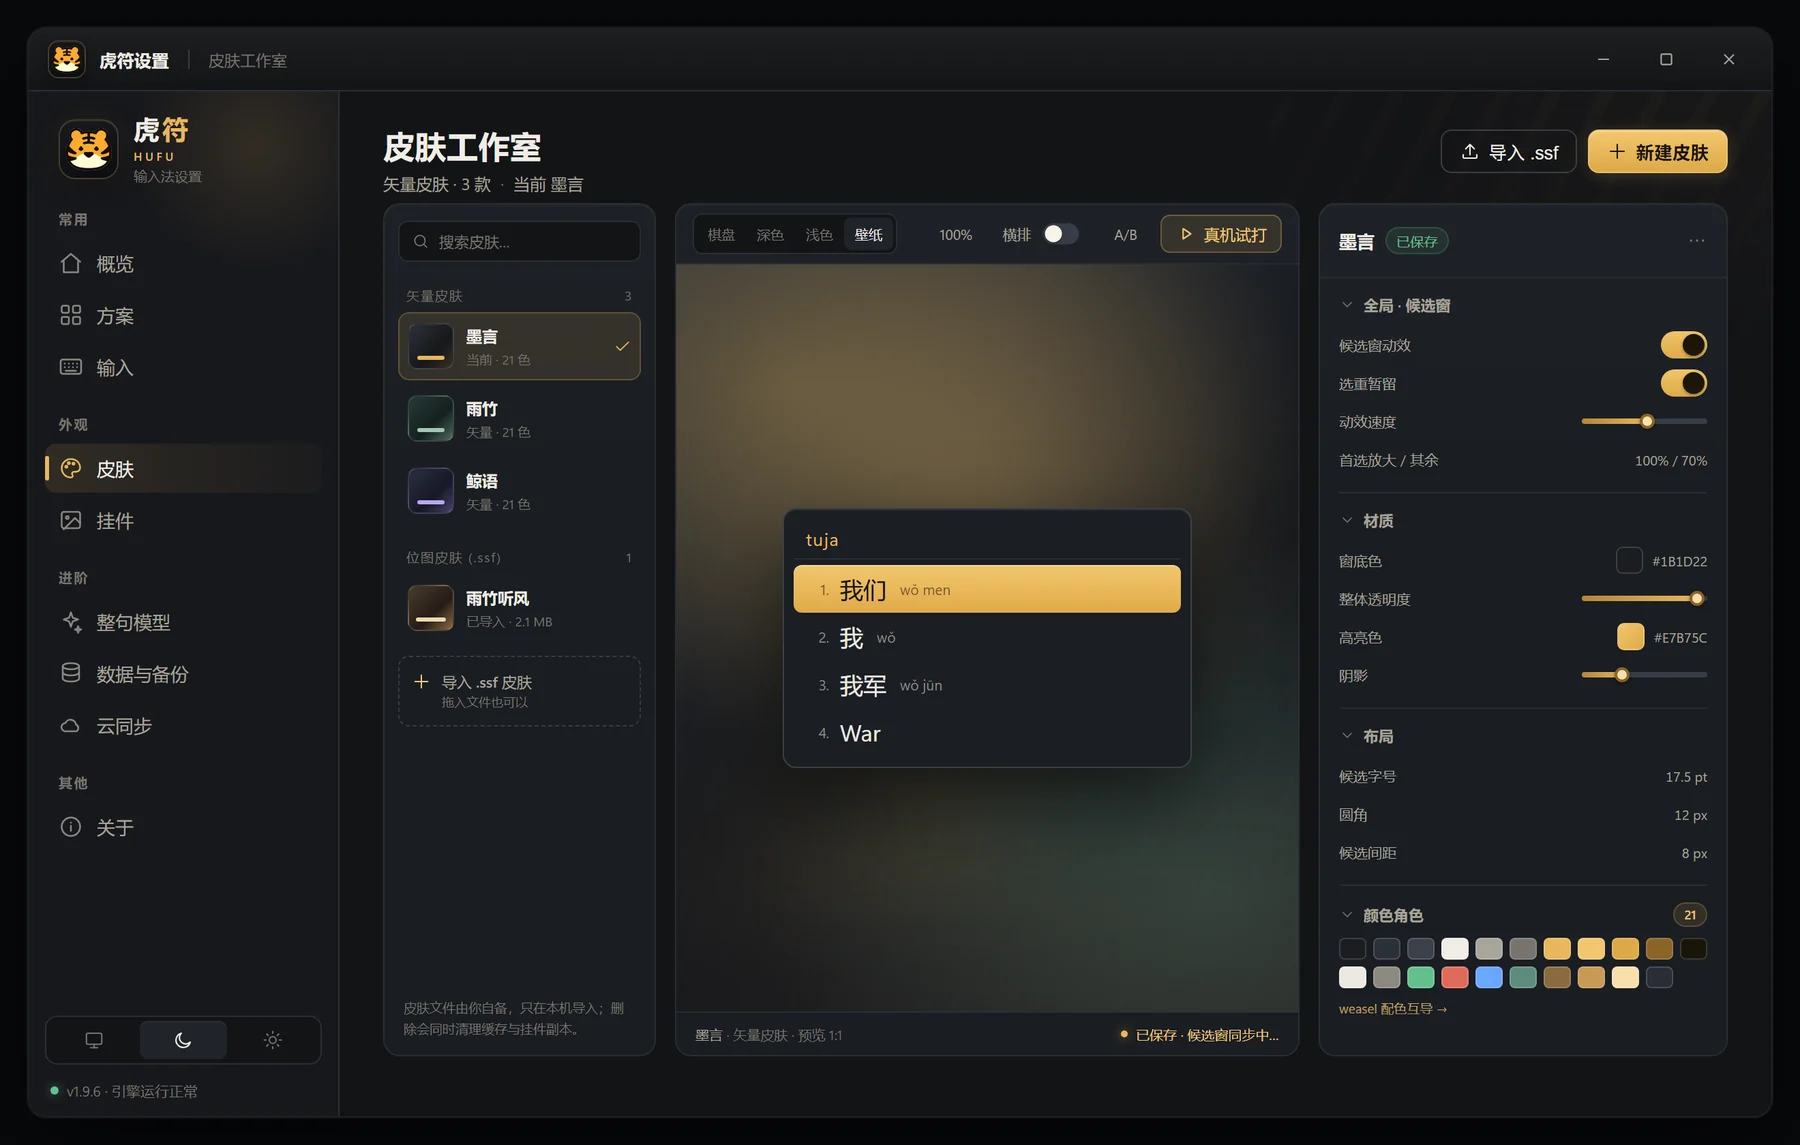
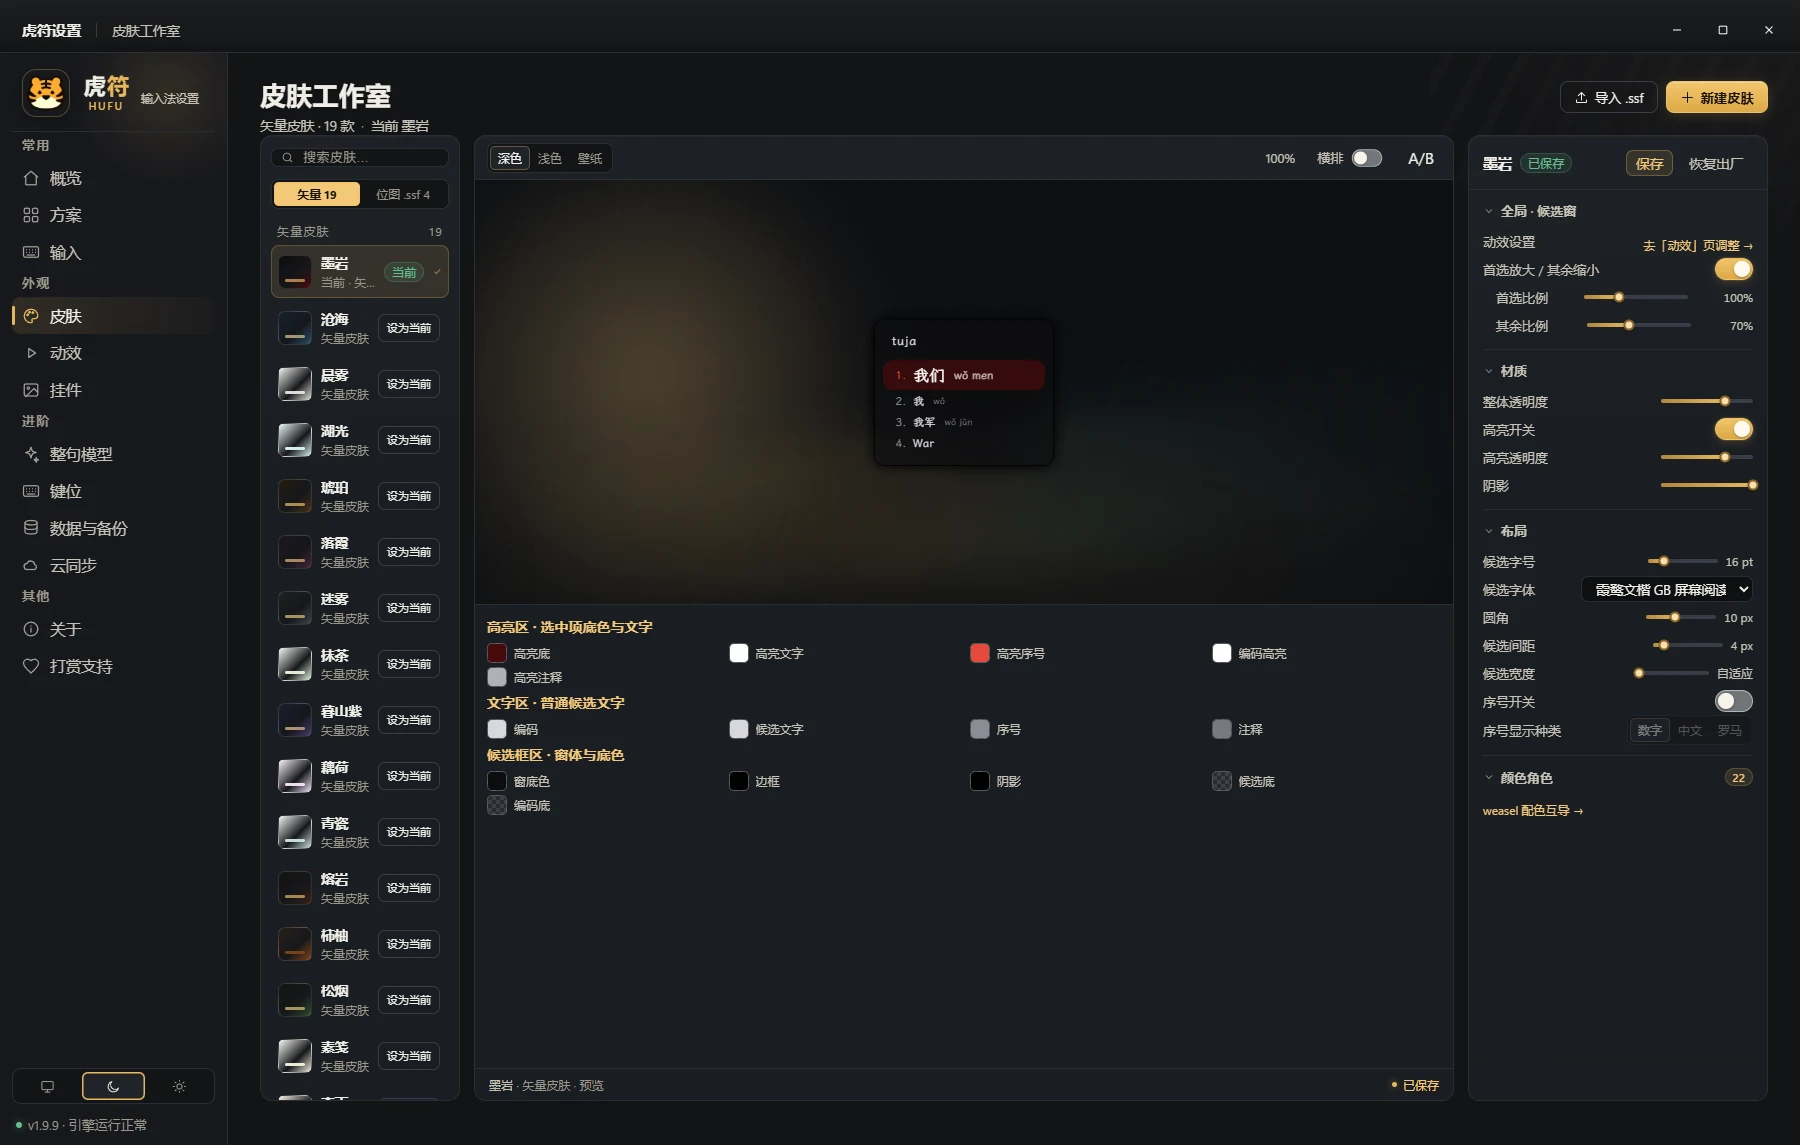
site: 深浅主题两套截图 + 主题切换圆形扩散
- 设置页截图全部换成当前版本（概览 / 整句模型 / 键位 / 云同步 /
  皮肤工作室），每张出 light / dark 两份 WebP；HTML 用
  data-theme-img + data-light/data-dark 标记，切主题时跟着换图，
  灯箱取当前主题的 currentSrc（去掉整句那张写死 data-src 的旧入口）。
- 截图里的 WebDAV 地址/账号/设备名与本地路径已做占位化处理
  （dav.example.com / you@example.com / MY-PC）。
- 主题切换改成和设置页一样的圆形扩散：View Transition root 层
  clip-path，从明暗按钮圆心出发，半径按到四角最远距离算，560ms；
  减少动画/低端机直接瞬切。
- 顺带把键位图注从「0 键自定义」改成「1 键自定义」与新截图一致；
  CSS/JS 版本号升到 20261103e，删掉四张不再引用的旧截图。

diff --git a/index.html b/index.html
@@ -27,7 +27,7 @@
 <link rel="apple-touch-icon" href="./assets/img/apple-touch-icon.png">
 <link rel="manifest" href="./site.webmanifest">
 <link rel="preload" href="./assets/fonts/noto-serif-sc-subset.woff2?v=20261103c" as="font" type="font/woff2" crossorigin>
-<link rel="stylesheet" href="./assets/css/main.css?v=20261103d">
+<link rel="stylesheet" href="./assets/css/main.css?v=20261103e">
 <script>
   (function () {
     var root = document.documentElement;
@@ -381,21 +381,21 @@
       <div class="shot-row">
         <figure class="shot" data-reveal>
           <button class="shot-btn" type="button" data-lightbox data-caption="设置 · 概览：Ctrl+K 搜索直达">
-            <img src="./assets/img/overview-current.webp" width="1280" height="800" alt="虎符设置概览页，顶部是设置搜索，展示当前方案、皮肤与云同步" loading="lazy" decoding="async">
+            <img src="./assets/img/overview-light.webp" data-theme-img data-light="./assets/img/overview-light.webp" data-dark="./assets/img/overview-dark.webp" width="1280" height="800" alt="虎符设置概览页，顶部是设置搜索，展示当前方案、皮肤与云同步" loading="lazy" decoding="async">
             <span class="shot-zoom"><svg class="ico"><use href="#i-arrow-up-right"></use></svg></span>
           </button>
           <figcaption><b>概览</b><span>Ctrl+K 搜索直达</span></figcaption>
         </figure>
         <figure class="shot" data-reveal>
           <button class="shot-btn" type="button" data-lightbox data-caption="皮肤工作室：19 套矢量皮肤">
-            <img src="./assets/img/studio-dark.webp" data-theme-img data-light="./assets/img/studio-light.webp" data-dark="./assets/img/studio-dark.webp" width="1800" height="1145" alt="虎符皮肤工作室，左侧是皮肤列表，中间是候选窗预览" loading="lazy" decoding="async">
+            <img src="./assets/img/studio-light.webp?v=20261103e" data-theme-img data-light="./assets/img/studio-light.webp?v=20261103e" data-dark="./assets/img/studio-dark.webp?v=20261103e" width="1800" height="1145" alt="虎符皮肤工作室，左侧是皮肤列表，中间是候选窗预览" loading="lazy" decoding="async">
             <span class="shot-zoom"><svg class="ico"><use href="#i-arrow-up-right"></use></svg></span>
           </button>
           <figcaption><b>皮肤工作室</b><span>19 套，一屏管理</span></figcaption>
         </figure>
         <figure class="shot" data-reveal>
-          <button class="shot-btn" type="button" data-lightbox data-src="./assets/img/sentence.webp" data-caption="整句模型：权重、预设与试验">
-            <img src="./assets/img/sentence.webp" width="1280" height="800" alt="虎符整句模型设置页，包含整句开关、神经重排与预设" loading="lazy" decoding="async">
+          <button class="shot-btn" type="button" data-lightbox data-caption="整句模型：权重、预设与试验">
+            <img src="./assets/img/sentence-light.webp" data-theme-img data-light="./assets/img/sentence-light.webp" data-dark="./assets/img/sentence-dark.webp" width="1280" height="800" alt="虎符整句模型设置页，包含整句开关、神经重排与预设" loading="lazy" decoding="async">
             <span class="shot-zoom"><svg class="ico"><use href="#i-arrow-up-right"></use></svg></span>
           </button>
           <figcaption><b>整句模型</b><span>权重、预设与试验</span></figcaption>
@@ -421,7 +421,7 @@
       <figure class="figure-frame figure-settings" data-reveal>
         <div class="figure-bar"><span class="win-dots"><i></i><i></i><i></i></span><span>LIVE PREVIEW</span><span class="figure-bar-tag">Ctrl + Alt + H</span></div>
         <div class="figure-img">
-          <img src="./assets/img/overview-current.webp" width="1280" height="800" alt="虎符设置概览页，顶部是设置搜索，展示当前方案、皮肤与云同步" loading="lazy" decoding="async">
+          <img src="./assets/img/overview-light.webp" data-theme-img data-light="./assets/img/overview-light.webp" data-dark="./assets/img/overview-dark.webp" width="1280" height="800" alt="虎符设置概览页，顶部是设置搜索，展示当前方案、皮肤与云同步" loading="lazy" decoding="async">
         </div>
         <figcaption><span>设置 · 概览</span><span>Ctrl+K 搜索直达</span></figcaption>
       </figure>
@@ -435,8 +435,8 @@
         <div class="keymap-badges"><span class="tag">全键盘两态映射</span><span class="tag">按键录制</span><span class="tag">冲突检测</span></div>
       </div>
       <figure class="keymap-frame">
-        <img src="./assets/img/keymap-current.webp" width="1280" height="800" alt="虎符键位编辑页，全键盘两态映射、按键录制与冲突检测" loading="lazy" decoding="async">
-        <figcaption><span>键位编辑 · 全键盘</span><span>0 键自定义 · 无冲突</span></figcaption>
+        <img src="./assets/img/keymap-light.webp" data-theme-img data-light="./assets/img/keymap-light.webp" data-dark="./assets/img/keymap-dark.webp" width="1280" height="800" alt="虎符键位编辑页，全键盘两态映射、按键录制与冲突检测" loading="lazy" decoding="async">
+        <figcaption><span>键位编辑 · 全键盘</span><span>1 键自定义 · 无冲突</span></figcaption>
       </figure>
     </div>
   </section>
@@ -446,7 +446,7 @@
       <figure class="figure-frame figure-sync" data-reveal>
         <div class="figure-bar"><span class="win-dots"><i></i><i></i><i></i></span><span>LIVE PREVIEW</span><span class="figure-bar-tag">WebDAV</span></div>
         <div class="figure-img">
-          <img src="./assets/img/sync-current.webp" width="1280" height="800" alt="虎符云同步设置页，展示合符图标、WebDAV 连接状态与同步方案" loading="lazy" decoding="async">
+          <img src="./assets/img/sync-light.webp" data-theme-img data-light="./assets/img/sync-light.webp" data-dark="./assets/img/sync-dark.webp" width="1280" height="800" alt="虎符云同步设置页，展示合符图标、WebDAV 连接状态与同步方案" loading="lazy" decoding="async">
         </div>
         <figcaption><span>云同步 · 合符</span><span>数据只经你自己的网盘</span></figcaption>
       </figure>
@@ -678,6 +678,6 @@ fcitx5 -r -d</code></pre>
   <button class="lb-nav lb-next" type="button" data-lb-next aria-label="下一张"><svg class="ico"><use href="#i-arrow-right"></use></svg></button>
 </dialog>
 
-<script src="./assets/js/main.js?v=20261103a" defer></script>
+<script src="./assets/js/main.js?v=20261103e" defer></script>
 </body>
 </html>

diff --git a/assets/js/main.js b/assets/js/main.js
@@ -48,14 +48,41 @@
 
   applyTheme(currentTheme());
 
+  /* ---------- Theme switch: circular reveal from the toggle ----------
+     与设置页同一套：View Transition root 层 + clip-path 圆扩散。
+     半径按按钮中心到四角的最远距离算，避免用 120vmax 提前铺满。 */
+  var themeVtBusy = false;
+  function themeReveal(fromButton) {
+    var r = fromButton.getBoundingClientRect();
+    var x = r.left + r.width / 2;
+    var y = r.top + r.height / 2;
+    var far = Math.max(
+      Math.sqrt(x * x + y * y),
+      Math.sqrt((window.innerWidth - x) * (window.innerWidth - x) + y * y),
+      Math.sqrt(x * x + (window.innerHeight - y) * (window.innerHeight - y)),
+      Math.sqrt((window.innerWidth - x) * (window.innerWidth - x) + (window.innerHeight - y) * (window.innerHeight - y))
+    ) + 28;
+    root.style.setProperty('--theme-x', x.toFixed(1) + 'px');
+    root.style.setProperty('--theme-y', y.toFixed(1) + 'px');
+    root.style.setProperty('--theme-r', far.toFixed(1) + 'px');
+  }
+
   if (themeToggle) {
     themeToggle.addEventListener('click', function () {
       var next = currentTheme() === 'dark' ? 'light' : 'dark';
-      if (!reduceMotion && !weakDevice && document.startViewTransition) {
-        document.startViewTransition(function () { setTheme(next); });
-      } else {
+      if (reduceMotion || weakDevice || !document.startViewTransition || themeVtBusy) {
         setTheme(next);
+        return;
       }
+      themeVtBusy = true;
+      themeReveal(themeToggle);
+      root.classList.add('theme-vt');
+      var vt = document.startViewTransition(function () { setTheme(next); });
+      var done = function () {
+        themeVtBusy = false;
+        root.classList.remove('theme-vt');
+      };
+      vt.finished.then(done, done);
     });
   }
 

diff --git a/assets/css/main.css b/assets/css/main.css
@@ -4704,3 +4704,26 @@ body.site-hidden *::before,
 body.site-hidden *::after {
   animation-play-state: paused !important;
 }
+
+/* ─────────────────────────────────────────────────────────────
+   【2026-11-03】主题切换：从明暗按钮做圆形扩散（与设置页同款）
+   View Transition root 层实现。注意 VT 伪元素选择器不能写成
+   `html.theme-vt ::view-transition-new(root)`（带空格），那样会静默
+   匹配不到、退回默认 250ms 交叉淡入（设置页踩过这个坑）。
+   ───────────────────────────────────────────────────────────── */
+html.theme-vt::view-transition-old(root),
+html.theme-vt::view-transition-new(root){
+  animation: none;
+  mix-blend-mode: normal;
+}
+html.theme-vt::view-transition-new(root){
+  z-index: 2;
+  clip-path: circle(0px at var(--theme-x, 90vw) var(--theme-y, 2.5rem));
+  animation: themeReveal .56s cubic-bezier(.33,.68,.3,1) forwards;
+}
+@keyframes themeReveal{
+  to{ clip-path: circle(var(--theme-r, 120vmax) at var(--theme-x, 90vw) var(--theme-y, 2.5rem)); }
+}
+@media (prefers-reduced-motion: reduce){
+  html.theme-vt::view-transition-new(root){ animation: none !important; clip-path: none !important; }
+}

diff --git a/README.md b/README.md
@@ -35,7 +35,7 @@ hufu-site/
 ## 内容与素材
 
 - **文案与数据**：来自仓库 README、`docs/features.md`、`docs/status.md` 与 v1.9.8 发布说明。
-- **截图**：设置页使用当前版本「概览（Ctrl+K 搜索）/ 云同步 / 键位编辑」截图（来自 `hufu/settings-app/screenshots/`），皮肤与整句截图来自 `docs/design/` 等；已转 WebP，仅作界面示意。
+- **截图**：设置页「概览 / 整句模型 / 键位 / 云同步 / 皮肤工作室」均由本机当前版本实拍，每张都有 `xxx-light.webp` 与 `xxx-dark.webp` 两份；HTML 里用 `data-theme-img` + `data-light` / `data-dark` 标记，`main.js` 在切主题时同步换图。已转 WebP，仅作界面示意。
 - **首页候选窗动画**：用 HTML/CSS 复刻真实候选窗（编码 `syfdgvwihuvnagj` → 整句「让中文收指成句」），不是视频；页面内已标注“网页示意”。
 - **下载信息**：页面加载后从 GitHub Releases API 读取最新版本号、日期、exe 直链与大小；API 不可用时回落到静态 v1.9.8 链接，不影响访问。
 - **字体**：Noto Serif SC 子集（仅包含页面用到的字符），SIL Open Font License 1.1，授权全文见 `assets/fonts/LICENSE.txt`。
